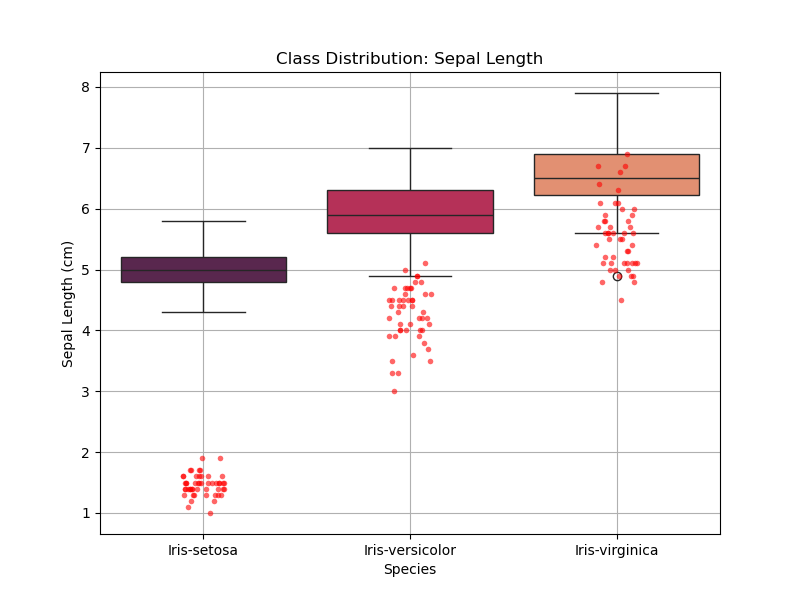
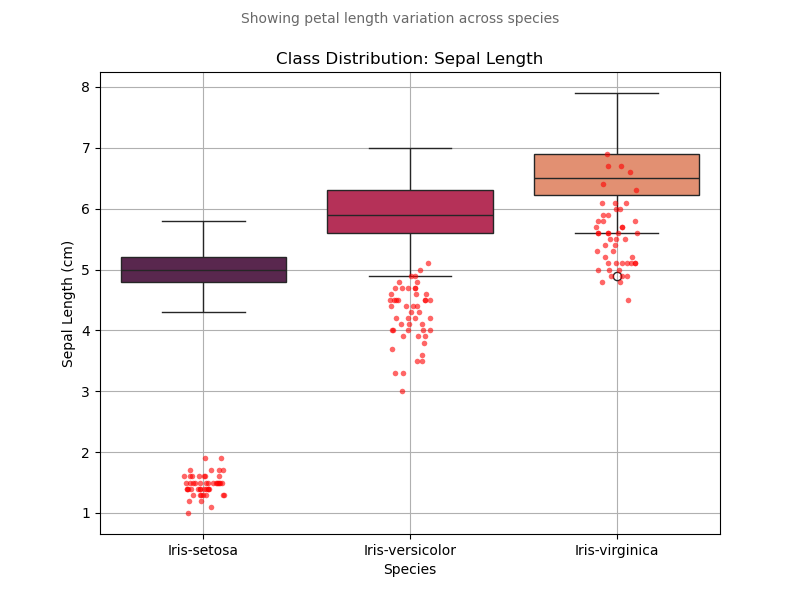
adding subtitle

diff --git a/analysis.py b/analysis.py
@@ -547,6 +547,7 @@ sns.stripplot(x="species", y="petal_length", data=df, color="red", size=4, jitte
 plt.xlabel("Species")                      # X-axis label → 📚 https://matplotlib.org/stable/api/_as_gen/matplotlib.pyplot.xlabel.html
 plt.ylabel("Petal Length (cm)")            # Y-axis label → 📚 https://matplotlib.org/stable/api/_as_gen/matplotlib.pyplot.ylabel.html
 plt.title("Class Distribution")  # Overall plot title → 📚 https://www.geeksforgeeks.org/matplotlib-pyplot-title-in-python/
+plt.suptitle("Showing petal length variation across species", fontsize=10, color="dimgray")
 
 plt.grid(True)  # Adding grid lines to the plot to make it easier to read → 📚 https://matplotlib.org/stable/api/_as_gen/matplotlib.pyplot.grid.html
 
@@ -569,6 +570,7 @@ sns.stripplot(x="species", y="petal_length", data=df, color="red", size=4, jitte
 plt.xlabel("Species")                    
 plt.ylabel("Sepal Length (cm)")          
 plt.title("Class Distribution: Sepal Length") 
+plt.suptitle("Showing petal length variation across species", fontsize=10, color="dimgray")
 
 plt.grid(True)
 
@@ -590,9 +592,10 @@ plt.close()
 # https://www.geeksforgeeks.org/matplotlib-pyplot-savefig-in-python/
 # https://matplotlib.org/stable/api/_as_gen/matplotlib.pyplot.grid.html
 # https://seaborn.pydata.org/generated/seaborn.stripplot.html
+# https://www.geeksforgeeks.org/stripplot-using-seaborn-in-python/
 # https://www.geeksforgeeks.org/how-to-make-boxplots-with-data-points-using-seaborn-in-python/
-
-
+# https://matplotlib.org/stable/api/_as_gen/matplotlib.pyplot.suptitle.html
+# https://www.geeksforgeeks.org/matplotlib-pyplot-suptitle-function-in-python/
 
 
 
